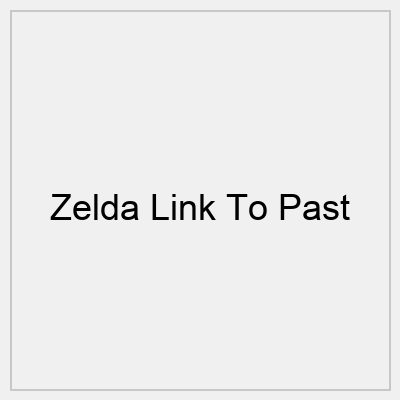
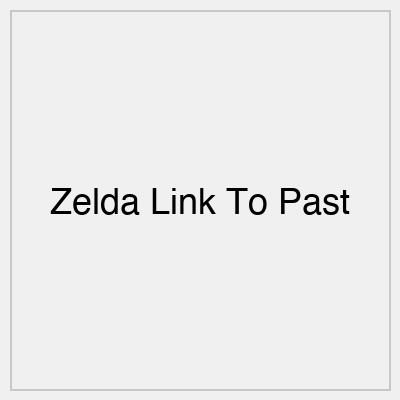
优化苹果系统下的图片生成

Changed region(s): [[0.12, 0.45, 0.54, 0.57], [0.57, 0.45, 0.87, 0.57], [0.57, 0.54, 0.6, 0.57]]

diff --git a/generate_images.py b/generate_images.py
@@ -1,5 +1,6 @@
 from PIL import Image, ImageDraw, ImageFont
 import os
+import platform
 
 def create_game_image(game_name, output_path):
     print(f"正在生成图片: {output_path}")
@@ -13,12 +14,16 @@ def create_game_image(game_name, output_path):
     
     # 添加游戏名称
     try:
-        font = ImageFont.truetype("Arial", 36)
-        print("使用Arial字体")
+        if platform.system() == 'Darwin':  # macOS
+            font = ImageFont.truetype("/System/Library/Fonts/Helvetica.ttc", 36)
+            print("使用Helvetica字体")
+        else:
+            font = ImageFont.truetype("Arial", 36)
+            print("使用Arial字体")
     except:
         try:
-            font = ImageFont.truetype("/usr/share/fonts/truetype/dejavu/DejaVuSans.ttf", 36)
-            print("使用DejaVuSans字体")
+            font = ImageFont.truetype("/System/Library/Fonts/SFNS.ttf", 36)  # San Francisco
+            print("使用San Francisco字体")
         except:
             font = ImageFont.load_default()
             print("使用默认字体")
